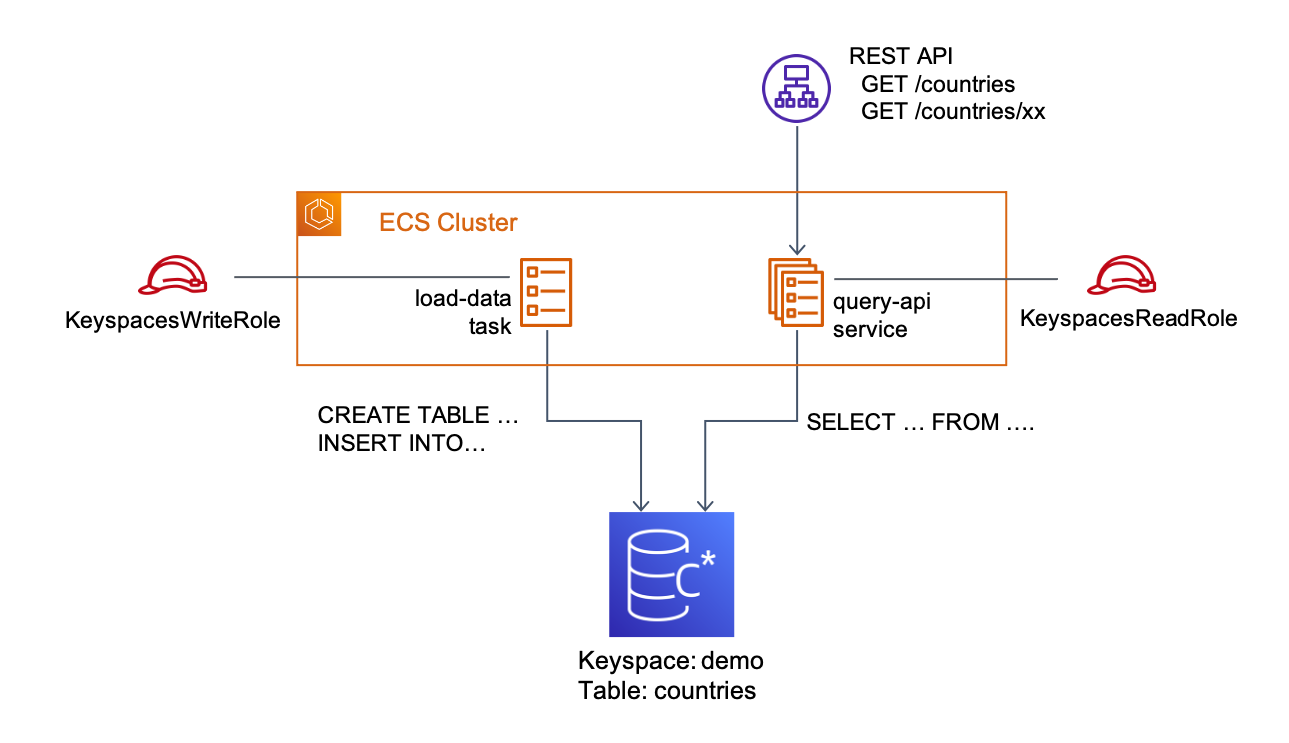
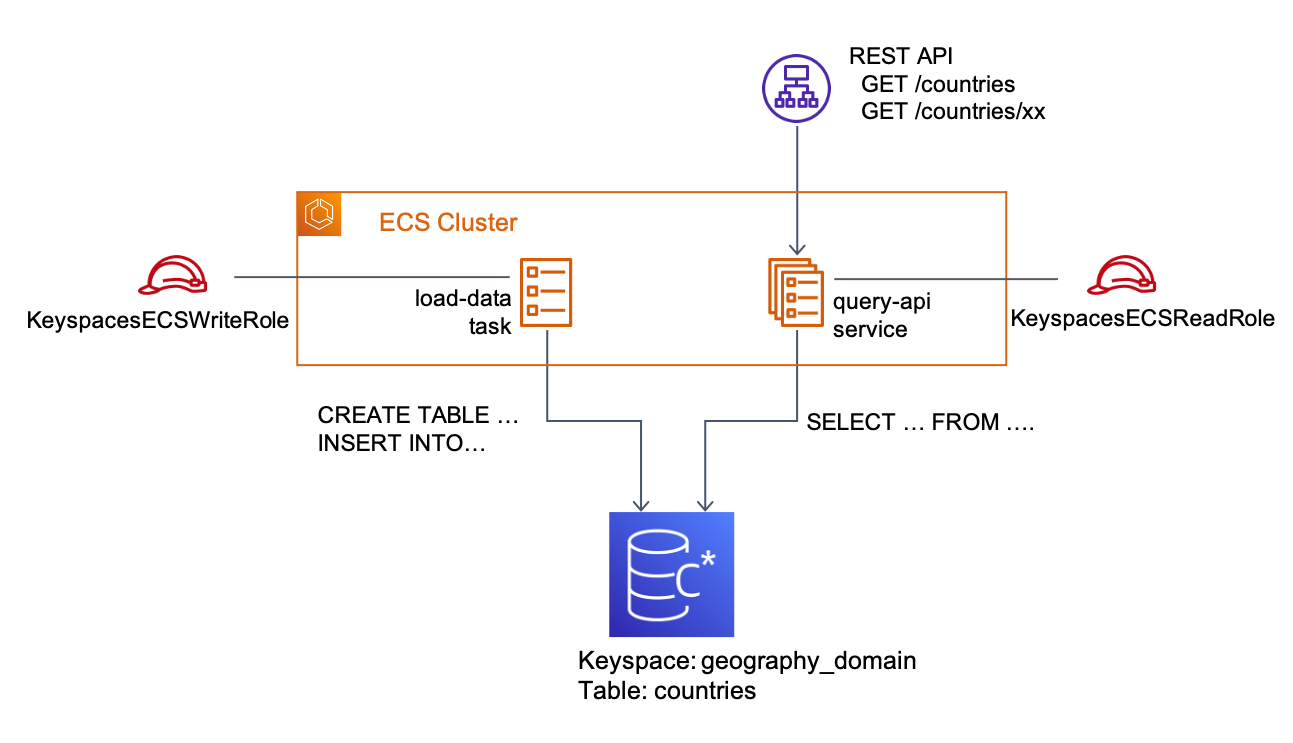
Updates to nodejs/datastax-v4/ecs-sigv4 example (#22)
* Added Node.js ECS sample

* Minor README.mf fixes

* Added VPC endpoint, updated README

* Optimizations and readability improvements for blog post

* Further tweaks and optimisationsto align with blog post

diff --git a/nodejs/datastax-v4/ecs-sigv4/app/query-api/query-api-server.js b/nodejs/datastax-v4/ecs-sigv4/app/query-api/query-api-server.js
@@ -75,7 +75,7 @@ async function runQueryApiServer() {
       executeQuery(query, res, pretty)
     })
     app.get('/ping', (req, res) => {
-      res.send("ok")
+      res.send("ok\n")
     })
     log.info('Routing configured')
 

diff --git a/nodejs/datastax-v4/ecs-sigv4/README.md b/nodejs/datastax-v4/ecs-sigv4/README.md
@@ -6,7 +6,11 @@ This code sample demonstrates how to access Amazon Keyspaces from ECS Tasks runn
 
 The code sample includes a CloudFormation template to build an environment, and two containerised applications *load-data* and *query-api*.
 
-The environment includes a VPC with public and private subnets, an ECS cluster, an application load balancer, an Amazon Keyspaces keyspace, and IAM roles for use with ECS tasks.
+The environment includes a VPC with public and private subnets, an ECS cluster, an application load balancer, an Amazon Keyspaces keyspace, a VPC endpoint for access to Keyspaces, and IAM roles for use with ECS tasks as shown below:
+
+![Infrastructure](./Infrastructure.png)
+
+The application architecture is shown below:
 
 ![Architecture](./Architecture.png)
 
@@ -38,9 +42,8 @@ Once *npm* is updated to reflect the latest version, this line can be changed to
 To run through this walkthrough, you will need to have the following tools installed:
 - [AWS CLI](https://aws.amazon.com/cli/)
 - [docker](https://www.docker.com/)
-- [curl](https://curl.se/download.html)
-- envsubst (part of the [GNU gettext](https://www.gnu.org/software/gettext/) package)
-  - OSX version available via [homebrew](https://formulae.brew.sh/formula/gettext) 
+- [curl](https://curl.se/download.html) (usually installed by default on Linux and MacOS)
+- cat (standard Linux / MacOS command)
 
 ### Step 1: Create environment
 
@@ -51,12 +54,14 @@ git clone https://github.com/aws-samples/amazon-keyspaces-examples.git
 cd amazon-keyspaces-examples/nodejs/datastax-v4/ecs-sigv4
 ```
 
-Create an environment stack using:
+Create the environment stack using:
 ```
 aws cloudformation deploy \
-  --stack-name demo-env \
+  --stack-name demo-infrastructure \
   --template-file cfn/Environment.yaml \
-  --parameter-overrides "EnvironmentName=demo" "KeyspaceName=demo" \
+  --parameter-overrides \
+    "EnvironmentName=demo-staging" \
+    "KeyspaceName=geography_domain" \
   --capabilities CAPABILITY_IAM
 ```
 
@@ -65,10 +70,32 @@ This stack includes:
 - a VPC with public and private subnets (includes a NAT gateway)
 - an ECS cluster (with associated security group and log group)
 - an Application Load Balancer for exposing the API server
+- NAT Gateways (to enable containers in private subnets to access the Internet)
+- a VPC endpoint for accessing Amazon Keyspaces
 - a Keyspace
 - IAM roles for use with ECS tasks.
 
 Once deployed, extract the following outputs as you will need them to deploy the ECS tasks:
+
+```
+aws cloudformation describe-stacks \
+  --stack-name demo-infrastructure \
+  --query "Stacks[0].Outputs[*].{key:OutputKey,value:OutputValue}" \
+  --output text \
+| awk '{print "cfn_" $1 "=" $2}' > vars.sh
+source vars.sh
+export TASK_EXEC_ROLE_ARN=$cfn_TaskExecutionRoleArn
+export WRITE_ROLE_ARN=$cfn_KeyspacesECSWriteRoleArn
+export READ_ROLE_ARN=$cfn_KeyspacesECSReadRoleArn
+export LOG_GROUP=$cfn_ClusterLogGroup
+export PRIVATE_SUBNET_ONE=$cfn_PrivateSubnetOne
+export PRIVATE_SUBNET_TWO=$cfn_PrivateSubnetTwo
+export CONTAINER_SG=$cfn_ContainerSecurityGroup
+export EXTERNAL_URL=$cfn_ExternalUrl
+export SERVICE_TG=$cfn_ServiceTargetGroup
+```
+
+<!--
 ```
 export TASK_EXEC_ROLE_ARN=$(aws cloudformation describe-stacks \
   --stack-name demo-env \
@@ -116,10 +143,11 @@ export SERVICE_TG=$(aws cloudformation describe-stacks \
   --output text \
 )
 ```
+-->
 
 Also set the following environment variables:
 ```
-export AWS_REGION=<your-region>
+export AWS_REGION=$(aws configure get region)
 export AWS_ACCOUNT_ID=$(aws sts get-caller-identity --query Account --output text)
 ```
 
@@ -127,7 +155,11 @@ export AWS_ACCOUNT_ID=$(aws sts get-caller-identity --query Account --output tex
 
 Log in to ECR:
 ```
-$(aws ecr get-login --no-include-email)
+aws ecr get-login-password \
+    --region $AWS_REGION \
+| docker login \
+    --username AWS \
+    --password-stdin $AWS_ACCOUNT_ID.dkr.ecr.$AWS_REGION.amazonaws.com
 ```
 
 Build the application and push to ECR:
@@ -139,7 +171,6 @@ load_data_ecr_uri=$( \
         --query repository.repositoryUri \
         --output text \
 )
-curl https://certs.secureserver.net/repository/sf-class2-root.crt -O
 docker build -t load-data:latest .
 docker tag load-data:latest $load_data_ecr_uri:latest
 docker push $load_data_ecr_uri:latest
@@ -147,7 +178,7 @@ docker push $load_data_ecr_uri:latest
 
 Register an ECS task definition for *load-data*:
 ```
-envsubst <<EoF >load-data-taskdef.json
+cat <<EoF >load-data-taskdef.json
 {
   "family": "load-data",
   "cpu": "256",
@@ -162,7 +193,7 @@ envsubst <<EoF >load-data-taskdef.json
     {
       "name": "load-data",
       "image": "${AWS_ACCOUNT_ID}.dkr.ecr.${AWS_REGION}.amazonaws.com/load-data",
-      "command" : [ "node", "load-data", "-r ${AWS_REGION}", "-k demo", "-t countries"],
+      "command" : [ "node", "load-data", "-r ${AWS_REGION}", "-k geography_domain", "-t countries"],
       "logConfiguration": {
         "logDriver": "awslogs",
         "options": {
@@ -181,7 +212,11 @@ aws ecs register-task-definition --cli-input-json file://load-data-taskdef.json
 
 Run the job using Fargate:
 ```
-aws ecs run-task --cluster demo --launch-type FARGATE --task-definition load-data --network-configuration "awsvpcConfiguration={subnets=[$PRIVATE_SUBNET_ONE,$PRIVATE_SUBNET_TWO],securityGroups=[$CONTAINER_SG]}"
+aws ecs run-task \
+  --cluster demo-staging \
+  --launch-type FARGATE \
+  --task-definition load-data \
+  --network-configuration "awsvpcConfiguration={subnets=[$PRIVATE_SUBNET_ONE,$PRIVATE_SUBNET_TWO],securityGroups=[$CONTAINER_SG]}"
 ```
 
 This task creates a table named `countries` in the keyspace `demo`, and populates it with some country data. You can monitor the progress of the task execution in the ECS console. Once the task has completed you can use the Amazon Keyspaces console to verfiy that the table exists, and to query the table.
@@ -199,7 +234,6 @@ query_api_ecr_uri=$( \
         --query repository.repositoryUri \
         --output text \
 )
-curl https://certs.secureserver.net/repository/sf-class2-root.crt -O
 docker build -t query-api:latest .
 docker tag query-api:latest $query_api_ecr_uri:latest
 docker push $query_api_ecr_uri:latest
@@ -207,7 +241,7 @@ docker push $query_api_ecr_uri:latest
 
 Register an ECS task definition for *query-api*.
 ```
-envsubst <<EoF >query-api-taskdef.json
+cat <<EoF >query-api-taskdef.json
 {
   "family": "query-api",
   "cpu": "256",
@@ -222,7 +256,7 @@ envsubst <<EoF >query-api-taskdef.json
     {
       "name": "query-api",
       "image": "${AWS_ACCOUNT_ID}.dkr.ecr.${AWS_REGION}.amazonaws.com/query-api",
-      "command" : [ "node", "query-api-server", "-r ${AWS_REGION}", "-k demo", "-t countries"],
+      "command" : [ "node", "query-api-server", "-r ${AWS_REGION}", "-k geography_domain", "-t countries"],
       "logConfiguration": {
         "logDriver": "awslogs",
         "options": {
@@ -247,7 +281,14 @@ aws ecs register-task-definition --cli-input-json file://query-api-taskdef.json
 
 Run the service using Fargate
 ```
-aws ecs create-service --cluster demo --service-name query-api-server --launch-type FARGATE --task-definition query-api --network-configuration "awsvpcConfiguration={subnets=[$PRIVATE_SUBNET_ONE,$PRIVATE_SUBNET_TWO],securityGroups=[$CONTAINER_SG]}" --desired-count 2 --load-balancers "targetGroupArn=${SERVICE_TG},containerName=query-api,containerPort=80"
+aws ecs create-service \
+  --cluster demo-staging \
+  --service-name query-api-server\
+  --launch-type FARGATE \
+  --task-definition query-api \
+  --network-configuration "awsvpcConfiguration={subnets=[$PRIVATE_SUBNET_ONE,$PRIVATE_SUBNET_TWO],securityGroups=[$CONTAINER_SG]}" \
+  --desired-count 2 \
+  --load-balancers "targetGroupArn=${SERVICE_TG},containerName=query-api,containerPort=80"
 ```
 
 Wait about 30 seconds for the service to start running and then test as follows.
@@ -267,8 +308,8 @@ curl $EXTERNAL_URL/countries/us?pretty
 
 Stop the ECS service
 ```
-aws ecs update-service --cluster demo --service query-api-server --desired-count=0
-aws ecs delete-service --cluster demo --service query-api-server
+aws ecs update-service --cluster demo-staging --service query-api-server --desired-count=0
+aws ecs delete-service --cluster demo-staging --service query-api-server
 ```
 
 Delete the ECR repositories:
@@ -279,5 +320,5 @@ aws ecr delete-repository --repository-name query-api --force
 
 Delete the environment stack:
 ```
-aws cloudformation delete-stack --stack-name demo-env
+aws cloudformation delete-stack --stack-name demo-infrastructure
 ```
